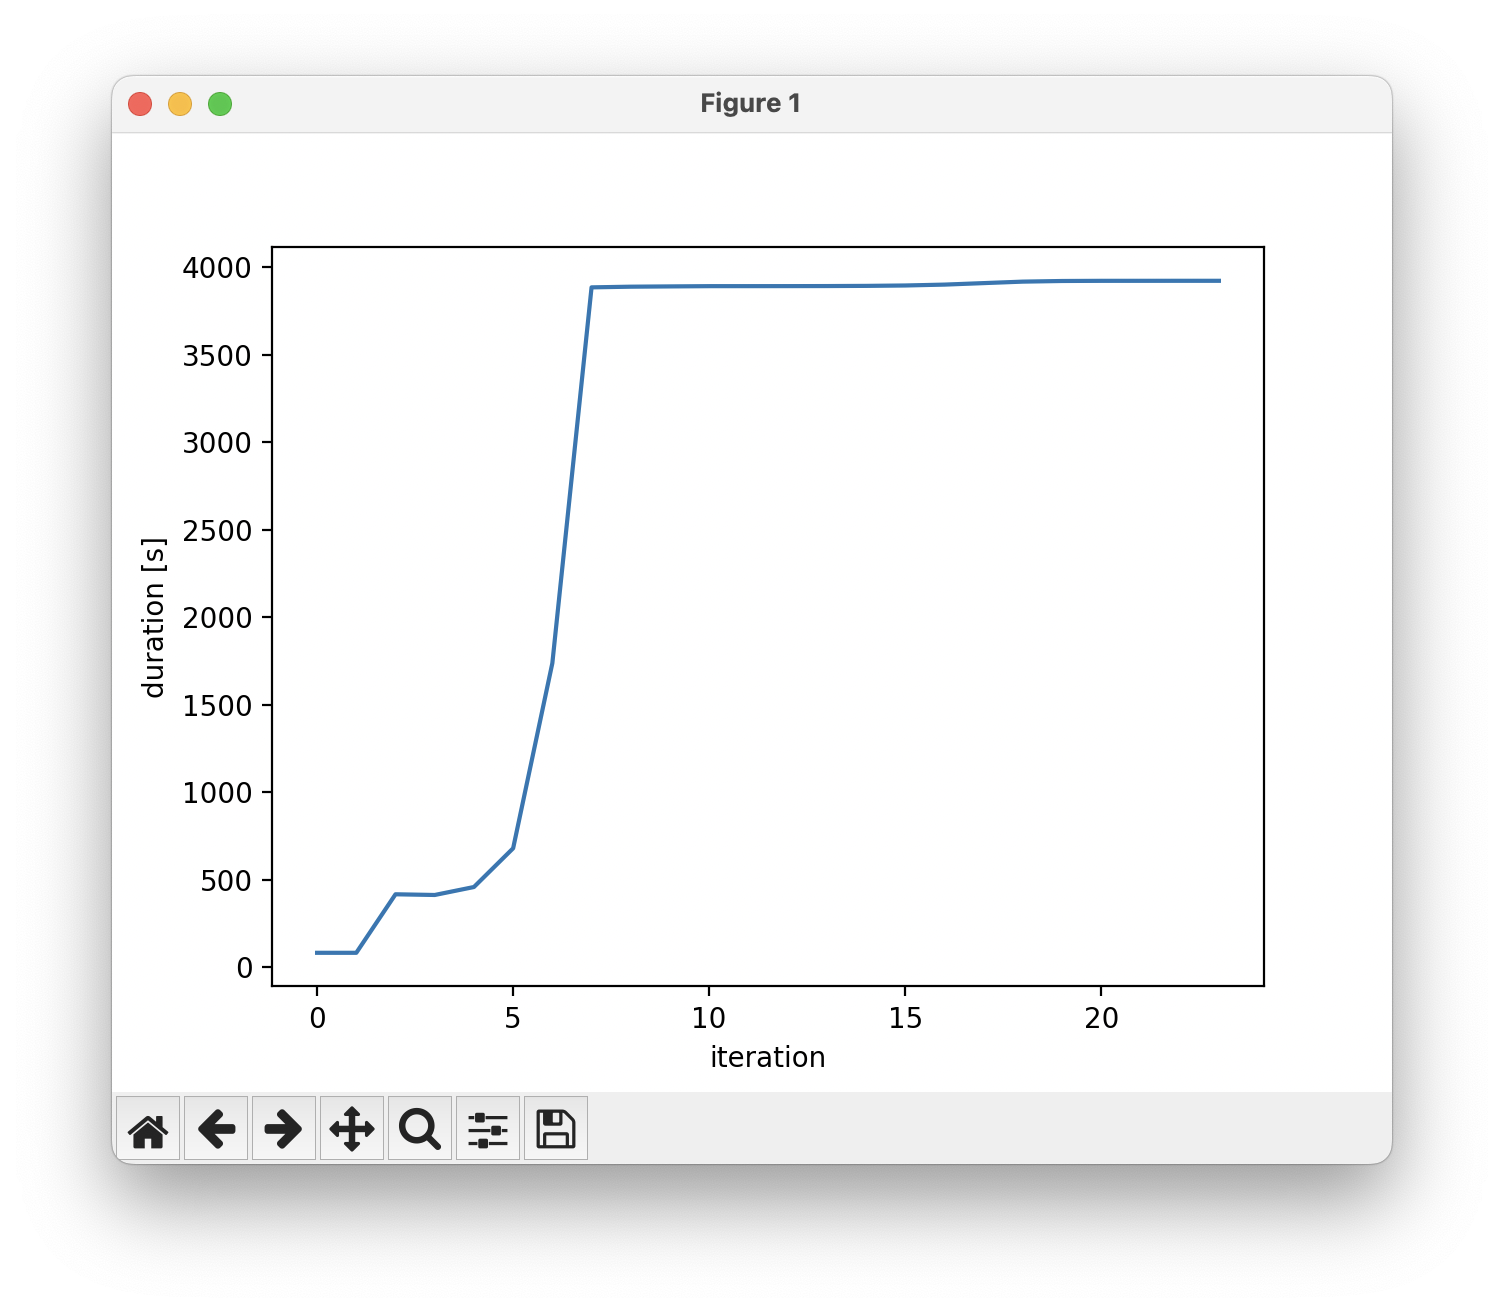
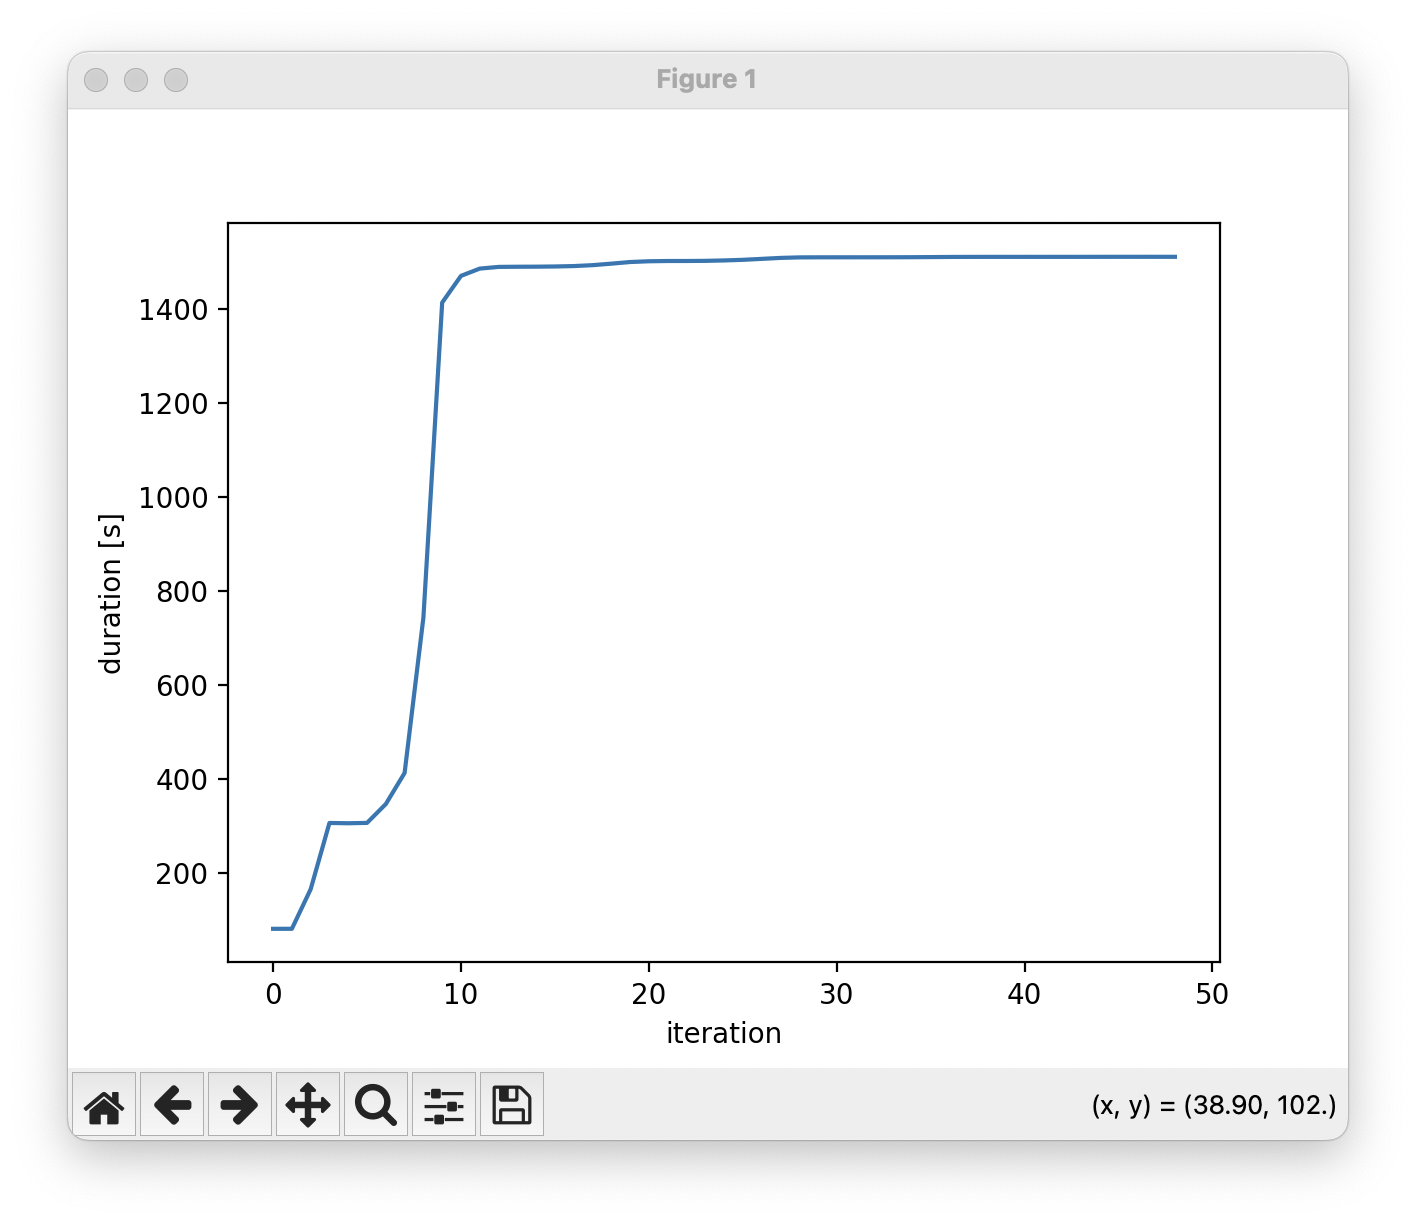
added sm and xnp for optimization

diff --git a/tests/test_stab_derivs_partial_derivs.py b/tests/test_stab_derivs_partial_derivs.py
@@ -245,7 +245,7 @@ class TestStabDerivDerivsPartials(unittest.TestCase):
             stab_deriv_seeds_fwd= self.ovl_solver._execute_jac_vec_prod_fwd(con_seeds={con_key: 1.0})[3]
 
             stab_deriv_sum = 0.0
-            for deriv_func in stab_deriv_seeds_fwd:
+            for deriv_func in stab_deriv_seeds_rev:
                     stab_deriv_sum += stab_deriv_seeds_rev[deriv_func] * stab_deriv_seeds_fwd[deriv_func]
 
             # do dot product
@@ -397,12 +397,25 @@ class TestStabDerivDerivsPartials(unittest.TestCase):
             for deriv_func in sd_d:
                 sens_label = f"{deriv_func} wrt {ref_key}"
                 print(sens_label, sd_d[deriv_func], sd_d_fd[deriv_func])
-                np.testing.assert_allclose(
-                    sd_d[deriv_func],
-                    sd_d_fd[deriv_func],
-                    rtol=1e-5,
-                    err_msg=sens_label,
-                )
+                
+                tol = 1e-8
+                if np.abs( sd_d[deriv_func]) < tol or np.abs(sd_d_fd[deriv_func]) < tol:
+                    # If either value is basically zero, use an absolute tolerance
+                    np.testing.assert_allclose(
+                        sd_d[deriv_func],
+                        sd_d_fd[deriv_func],
+                        atol=1e-5,
+                        err_msg=sens_label,
+                    )
+                else:
+                    np.testing.assert_allclose(
+                        sd_d[deriv_func],
+                        sd_d_fd[deriv_func],
+                        rtol=1e-5,
+                        err_msg=sens_label,
+                    )
+                        
+
 
     def test_rev_ref(self):
         

diff --git a/examples/plot_planform_results.py b/examples/plot_planform_results.py
@@ -7,7 +7,7 @@ import os
 
 
 cr = om.CaseReader("./run_opt_om_planform_out/opt_history.sql")
-driver_cases = cr.list_cases('driver')
+driver_cases = cr.list_cases('driver',out_stream=None)
 obj_arr = np.zeros(len(driver_cases))
 for idx_case in range(len(driver_cases)):
     obj_arr[idx_case] = cr.get_case(driver_cases[idx_case])['glide.duration']
@@ -26,4 +26,26 @@ files = glob.glob(os.path.join(output_dir, "*.avl"))
 latest_file = max(files, key=os.path.getmtime)
 
 ovl = OVLSolver(geo_file=latest_file)
+
 ovl.plot_geom()
+
+ovl.execute_run()
+
+
+strip_data = ovl.get_strip_forces()
+
+
+# Create a figure and two subplots that share the x-axis
+fig, (ax1, ax2) = plt.subplots(2, 1, sharex=True, figsize=(8, 6))
+
+
+for surf_key in strip_data:
+    span_distance = strip_data[surf_key]['Y LE']
+    ax1.plot(span_distance, strip_data[surf_key]['chord'], color='blue', label='chord')
+    ax1.plot(span_distance, strip_data[surf_key]['twist'], color='red' , label='twist')
+    ax2.plot(span_distance, strip_data[surf_key]['lift dist'], color='C0', label='list dist')
+
+ax1.legend(['chord', 'twist'])
+ax2.legend(['lift dist'])
+ax2.set_xlabel('span location')
+plt.show()

diff --git a/examples/run_opt_om_planform.py b/examples/run_opt_om_planform.py
@@ -201,11 +201,11 @@ model.connect("geom_dvs.aincs", "differ_aincs.input_vec")
 # design variables modify the planform and twist distribution
 model.add_design_var("geom_param.c/4_sweep", lower=0.0, upper=3.0)
 model.add_design_var("geom_param.taper_ratio", lower=0.1, upper=1.0)
-model.add_design_var("geom_param.root_chord", lower=0.25, upper=4.0)
+model.add_design_var("geom_param.root_chord", lower=0.5, upper=4.0)
 model.add_design_var("ovlsolver.Wing:aincs", lower=-15, upper=15)
 
 model.add_constraint("ovlsolver.CM", equals=0.0, scaler=1e3)
-model.add_constraint("ovlsolver.dCM/dalpha", upper=0.0, lower=-0.5, scaler=1e3)
+model.add_constraint("ovlsolver.static margin", upper=0.3, lower=0.1, scaler=1e1)
 
 # make sure CL stays slightly positive to avoid 
 model.add_constraint("ovlsolver.CL", lower=0.1, scaler=1)
@@ -240,7 +240,7 @@ prob.driver.recording_options['record_desvars'] = True
 
 
 prob.setup(mode='rev')
-prob.run_driver()
 om.n2(prob, show_browser=False, outfile="vlm_opt.html")
+prob.run_driver()
 
 # prob.check_totals()

diff --git a/optvl/optvl_class.py b/optvl/optvl_class.py
@@ -274,7 +274,7 @@ class OVLSolver(object):
             "pitch rate": "RY",
             "yaw rate": "RZ",
             }
-        self.case_stab_derivs_to_fort_var = {}
+        self.case_stab_derivs_to_fort_var = { "static margin": ['CASE_R', "SM"], "neutral point": ["CASE_R", "XNP"]}
         for func in ["CL", "CD", "CY", "CR", "CM", "CN"]:
             for var in var_to_suffix:
                 self.case_stab_derivs_to_fort_var[self._get_deriv_key(var, func)] = ["CASE_R", f"{func}TOT_{var_to_suffix[var]}"]

diff --git a/tests/test_total_derivs.py b/tests/test_total_derivs.py
@@ -138,7 +138,7 @@ class TestTotals(unittest.TestCase):
                         err_msg=f"func_key {func_key} w.r.t. {con_key}",
                     )
 
-            for func_key in stab_derivs_seeds:
+            for func_key in stab_derivs:
                     ad_dot = sens_sd[func_key][con_key]
                     func_dot = stab_derivs_seeds[func_key]
 

diff --git a/docs/planform_optimization.md b/docs/planform_optimization.md
@@ -63,7 +63,7 @@ Combining all these components into the OpenMDAO model we get the following scri
 
 ## Results
 
-The Optimized design has a glide duration of over 3000 seconds.
+The Optimized design has a glide duration of over 1400 seconds.
 We can plot the objective function over the iterations using OpenMDAO's `CaseReader` class with the recorder we made. 
 Additionally, we can load in the last `.avl` file written during the optimization to view the geometry of the optimized design. 
 ```python
@@ -72,7 +72,7 @@ Additionally, we can load in the last `.avl` file written during the optimizatio
 %}
 ```
 
-The objective function quickly rises to about 3000 seconds and then levels off. 
+The objective function quickly rises to about 1400 seconds and then levels off. 
 
 ![](figures/obj_hist_planform.png)
 
@@ -80,6 +80,11 @@ However, if we zoom in we can see that some slight improvements are still being 
 
 ![](figures/obj_hist_planform_zoomed.png)
 
-From the geometry we can see that the aspect ratio of the wing has increased dramatically and now has a slight sweep.
+From the geometry we can see that the aspect ratio of the wing has increased dramatically and now has a sweep.
 
 ![](figures/planform_geom_opt.png)
+
+Looking at the twist and cord distribution we can see a linear chord distribution because of the taper ratio and the wash-out in the sweep. 
+The lift distribution does not look elliptical, which makes sense as maximizing glide duration is not equivalent to minimizing drag. 
+
+![](figures/planform_opt_dists.png)
